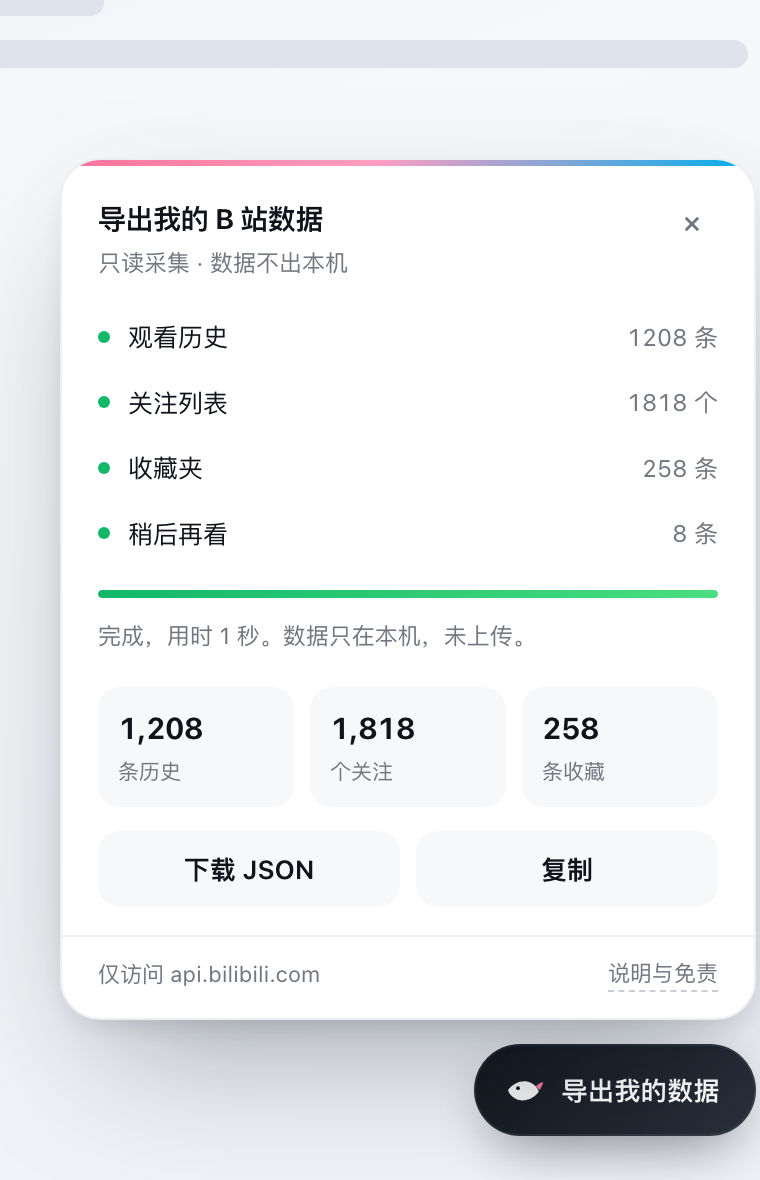
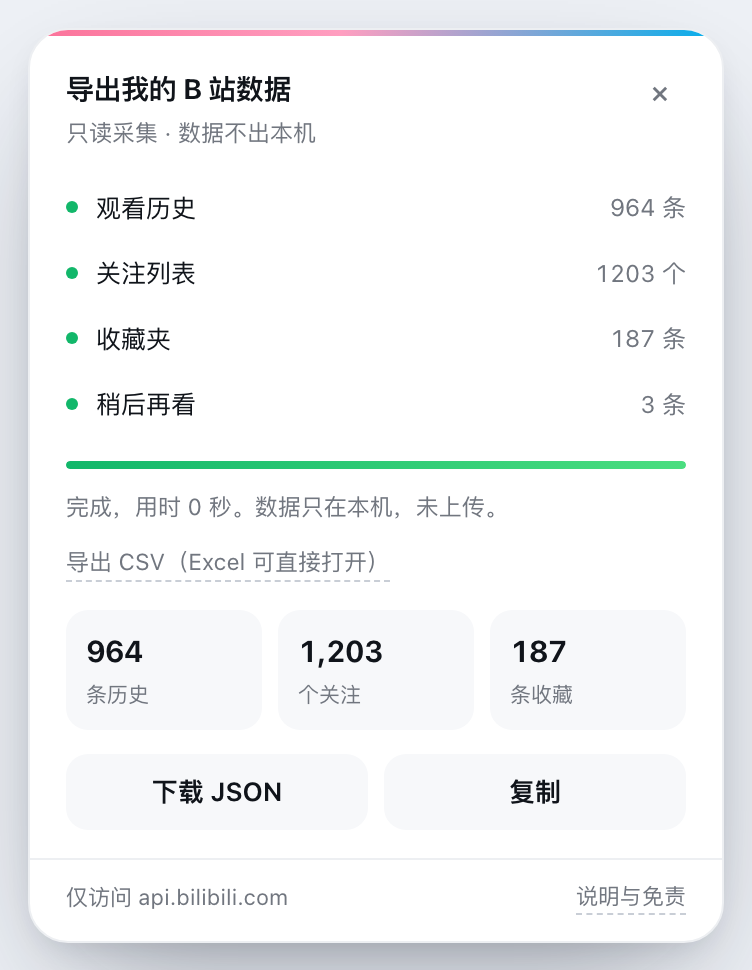
chore: 截图与示例数字脱敏，README 版式调整
- 文档里的真实数据换成示例数字（964/1203/187/3）
- STATUS 采集结果改为区间描述
- 五张截图重出，尺寸统一、面板单独取景
- 修复：采集过程中进度条不推进（onProgress 漏调 setProgress）

diff --git a/src/content.js b/src/content.js
@@ -341,6 +341,8 @@
         state: base,
         onProgress: (k, msg) => {
           if (rows[k]) setRow(k, 'run', msg);
+          const i = ORDER.indexOf(k);
+          if (i >= 0) setProgress(i + 0.5, 'run');
           setNote('正在采集…');
         },
         onCheckpoint: (s) => { st = s; saveCkpt(s); },

diff --git a/README.md b/README.md
@@ -1,23 +1,22 @@
 # b-fenxi · B站数据导出器
 
-一个浏览器扩展：把你自己的 B 站**观看历史、关注列表、收藏夹、稍后再看**导出成一个 JSON 文件。
+一个浏览器扩展：把你自己的 B 站**观看历史、关注列表、收藏夹、稍后再看**导出成 JSON 或 CSV 文件。
 
 只读。不点赞、不评论、不关注。没有后端服务器，数据只在你自己的电脑上。
 
 > 起因很简单：B 站只保留约 1200 条观看历史（大概 40 天），年度报告也只给你几个汇总数字。
 > 想回看"我这一年到底看了什么"，得自己攒。
 
-![界面](docs/screenshot-run.png)
 
 <p align="center">
-  <img src="docs/screenshot-idle.png" width="24%" alt="待开始">
-  <img src="docs/screenshot-run.png" width="24%" alt="采集中">
-  <img src="docs/screenshot-done.png" width="24%" alt="已完成">
-  <img src="docs/screenshot-resume.png" width="24%" alt="断点续跑">
+  <img src="docs/screenshot-idle.png" width="170" alt="待开始">
+  <img src="docs/screenshot-run.png" width="170" alt="采集中">
+  <img src="docs/screenshot-done.png" width="170" alt="已完成">
+  <img src="docs/screenshot-resume.png" width="170" alt="断点续跑">
 </p>
 
 <p align="center">
-  <img src="docs/screenshot-csv.png" width="46%" alt="CSV 导出">
+  <img src="docs/screenshot-csv.png" width="260" alt="CSV 导出">
 </p>
 
 ---
@@ -130,9 +129,9 @@ Edge 同理：`edge://extensions/`。
   ],
 
   "diag": {
-    "history": 1208,
-    "followings": 1818,
-    "favorites": 258,
+    "history": 964,
+    "followings": 1203,
+    "favorites": 187,
     "toview": 8,
     "errors": []            // 出错的阶段：[{ phase, code, message }]
   }
